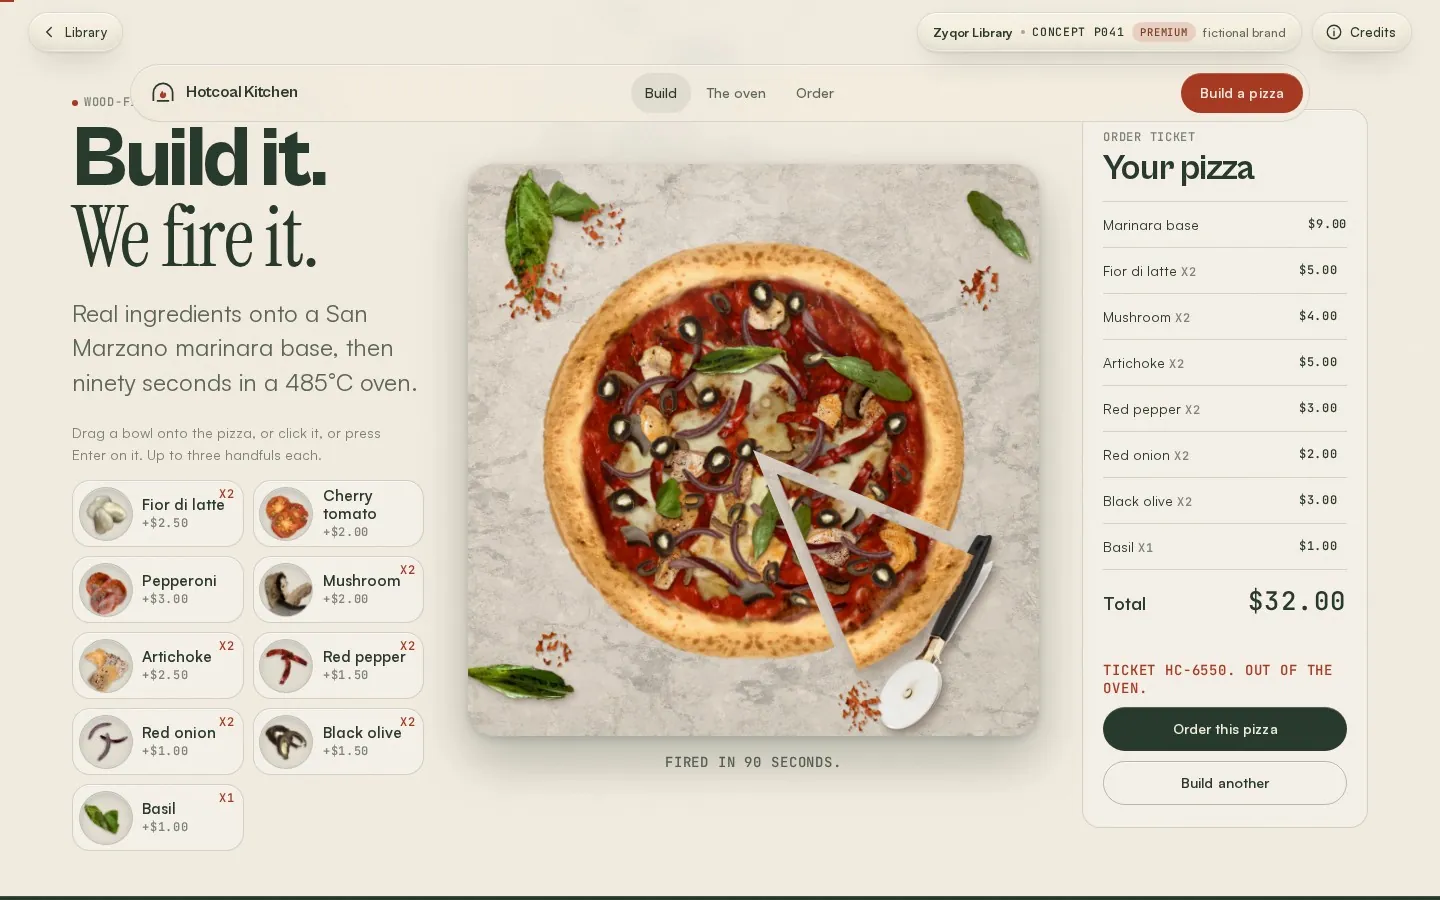
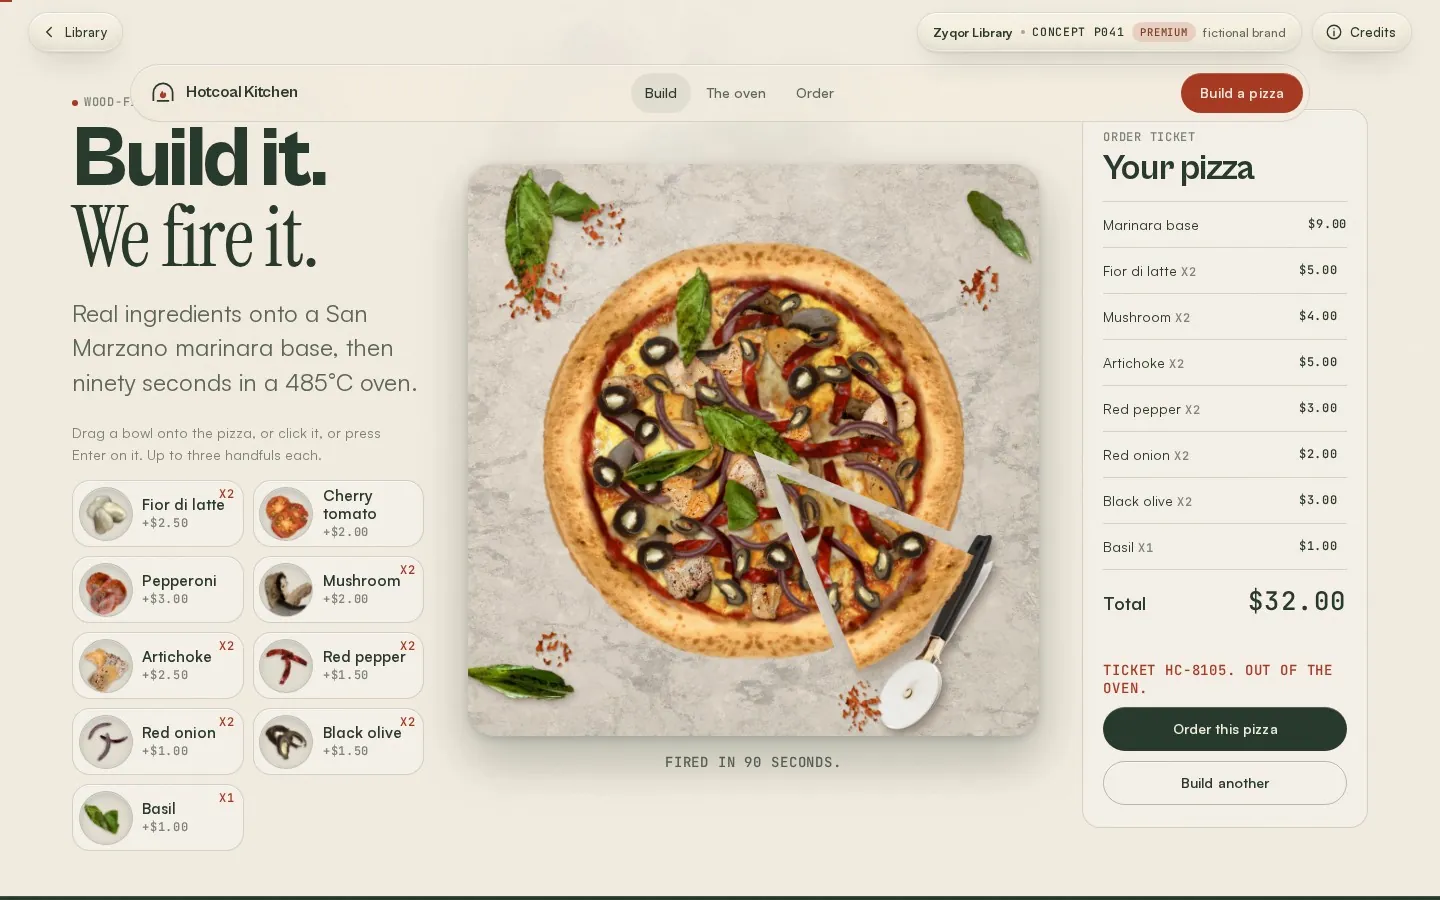
P041 v3: melted cheese sheet when mozzarella is on, bigger veggie pieces; credits

Changed region(s): [[0.4062, 0.28, 0.6562, 0.6844]]

diff --git a/site/library/p/P041/app.js b/site/library/p/P041/app.js
@@ -33,11 +33,11 @@ const ING = {
   mozzarella: { name: 'Fior di latte', price: 2.5, n: 4, size: 1.25, oil: 'rgb(238,170,92)', raw: list('mozz-raw', 6), baked: list('mozz-baked', 6), grow: [1.0, 1.2], shadow: [0.75, 0.1], gap: 0.24 },
   tomato:     { name: 'Cherry tomato', price: 2.0, n: 6, size: 1.12, raw: list('tom-raw', 2), baked: list('tom-baked', 2), grow: [1, 0.9], shadow: [0.7, 0.55], gap: 0.17 },
   pepperoni:  { name: 'Pepperoni',     price: 3.0, n: 6, oil: 'rgb(226,118,38)', raw: list('pep-raw', 5), baked: list('pep-baked', 5), grow: [1.02, 0.92], shadow: [0.5, 0.38], gap: 0.25 },
-  mushroom:   { name: 'Mushroom',      price: 2.0, n: 8, raw: list('mush-raw', 3), baked: list('mush-baked', 3), grow: [1, 0.9], shadow: [0.55, 0.42], gap: 0.2 },
-  artichoke:  { name: 'Artichoke',     price: 2.5, n: 6, raw: list('arti-raw', 7), baked: list('arti-baked', 7), grow: [1, 0.95], shadow: [0.55, 0.42], gap: 0.22 },
-  pepper:     { name: 'Red pepper', price: 1.5, n: 7, raw: list('pepper-raw', 5), baked: list('pepper-baked', 5), grow: [1, 0.92], shadow: [0.5, 0.4], gap: 0.2 },
-  onion:      { name: 'Red onion',     price: 1.0, n: 8, raw: list('onion-raw', 4), baked: list('onion-baked', 4), grow: [1, 0.9], shadow: [0.45, 0.35], gap: 0.19 },
-  olive:      { name: 'Black olive',   price: 1.5, n: 13, raw: list('olive-raw', 3), baked: list('olive-baked', 3), grow: [1, 0.97], shadow: [0.55, 0.45], gap: 0.13 },
+  mushroom:   { name: 'Mushroom',      price: 2.0, n: 8, size: 1.25, raw: list('mush-raw', 3), baked: list('mush-baked', 3), grow: [1, 0.9], shadow: [0.55, 0.42], gap: 0.2 },
+  artichoke:  { name: 'Artichoke',     price: 2.5, n: 6, size: 1.2, raw: list('arti-raw', 7), baked: list('arti-baked', 7), grow: [1, 0.95], shadow: [0.55, 0.42], gap: 0.22 },
+  pepper:     { name: 'Red pepper', price: 1.5, n: 7, size: 1.12, raw: list('pepper-raw', 5), baked: list('pepper-baked', 5), grow: [1, 0.92], shadow: [0.5, 0.4], gap: 0.2 },
+  onion:      { name: 'Red onion',     price: 1.0, n: 8, size: 1.12, raw: list('onion-raw', 4), baked: list('onion-baked', 4), grow: [1, 0.9], shadow: [0.45, 0.35], gap: 0.19 },
+  olive:      { name: 'Black olive',   price: 1.5, n: 13, size: 1.3, raw: list('olive-raw', 3), baked: list('olive-baked', 3), grow: [1, 0.97], shadow: [0.55, 0.45], gap: 0.13 },
   /* basil goes on fresh after the oven, the way a pizzaiolo finishes it: the baked state keeps the bright leaves */
   basil:      { name: 'Basil',         price: 1.0, n: 4, raw: list('basil-raw', 4), baked: list('basil-raw', 4), grow: [1, 1], shadow: [0.5, 0.45], gap: 0.22 }
 };
@@ -72,6 +72,8 @@ function shadowOf(el, blur, tint) {
 }
 const baseRaw = img(isM ? 'img/base-raw-1024.webp' : 'img/base-raw.webp');
 const baseBaked = img(isM ? 'img/base-baked-1024.webp' : 'img/base-baked.webp');
+/* with mozzarella on, the oven melts it into one sheet: real melted cheese (Baron Maddock, CC BY 4.0) fades in over the sauce */
+const baseCheese = img(isM ? 'img/base-cheese-1024.webp' : 'img/base-cheese.webp');
 const warm = () => { for (const t of ORDER) { ING[t].raw.forEach(img); ING[t].baked.forEach(img); } };
 ('requestIdleCallback' in window) ? requestIdleCallback(warm, { timeout: 900 }) : setTimeout(warm, 300);
 
@@ -100,6 +102,8 @@ function render(now) {
   ctx.imageSmoothingEnabled = true; ctx.imageSmoothingQuality = 'high';
   if (baseRaw.ok) ctx.drawImage(baseRaw.el, 0, 0, W, W);
   if (baseBaked.ok && p > 0) { ctx.globalAlpha = sstep(0.05, 0.9, p); ctx.drawImage(baseBaked.el, 0, 0, W, W); ctx.globalAlpha = 1; }
+  const nz = state.portions.mozzarella.length;
+  if (nz && baseCheese.ok && p > 0) { ctx.globalAlpha = sstep(0.2, 0.85, p) * Math.min(1, 0.55 + 0.25 * nz); ctx.drawImage(baseCheese.el, 0, 0, W, W); ctx.globalAlpha = 1; }
   for (const type of ORDER) {
     const cfg = ING[type], pieces = state.portions[type].flat().concat(gone.filter((g) => g.type === type));
     if (!pieces.length) continue;

diff --git a/site/library/p/P041/index.html b/site/library/p/P041/index.html
@@ -112,7 +112,7 @@
       </div>
     </div>
   </section>
-  <section class="wrap photo-cred" aria-label="Photo credits"><p class="mono">Photos: crust, melted mozzarella and basil from "Neapolitan pizza at Trappica" by Bex Walton, Wikimedia Commons, CC BY 2.0 (creativecommons.org/licenses/by/2.0); raw mozzarella from "Mozzarella" by Dezidor, Wikimedia Commons, CC BY 3.0 (creativecommons.org/licenses/by/3.0); sauce "Pizza marinara (Napoli)" by Ruthven, pepperoni from "Luigis Pizza &amp; Pasta - Pepperoni pizza" by Beno&icirc;t Prieur, cherry tomatoes by Raju C Reddy (Wikimedia Commons, CC0 1.0). All cut out, re-lit and baked by Zyqor Studio. Veggie toppings: black olives from "Supreme pizza" by Scott Bauer, USDA ARS (public domain); raw mushrooms from "Pizza veggie by Arthur avant cuisson au four" by Beno&icirc;t Prieur (CC0 1.0) and "Sliced champignons" by frank wouters, Wikimedia Commons, CC BY 2.0 (creativecommons.org/licenses/by/2.0); artichoke hearts from a pizza photo by Daderot (CC0 1.0); roasted pepper strips from "Roasted Bell Peppers" by Ryan Snyder, Wikimedia Commons, CC BY 2.0 (creativecommons.org/licenses/by/2.0); red onion from "Red onion rings" by Sebastian Wallroth (public domain). Table: "Marble 012", ambientCG (CC0 1.0); pizza slicer by Evan-Amos (public domain); chili flakes from "Red pepper flakes for pickling" (CC0 1.0). Idea sparked by a pizza-builder reel shared by @online.by.annie; nothing of it is used.</p></section>
+  <section class="wrap photo-cred" aria-label="Photo credits"><p class="mono">Photos: crust, melted mozzarella and basil from "Neapolitan pizza at Trappica" by Bex Walton, Wikimedia Commons, CC BY 2.0 (creativecommons.org/licenses/by/2.0); raw mozzarella from "Mozzarella" by Dezidor, Wikimedia Commons, CC BY 3.0 (creativecommons.org/licenses/by/3.0); sauce "Pizza marinara (Napoli)" by Ruthven, pepperoni from "Luigis Pizza &amp; Pasta - Pepperoni pizza" by Beno&icirc;t Prieur, cherry tomatoes by Raju C Reddy (Wikimedia Commons, CC0 1.0). All cut out, re-lit and baked by Zyqor Studio. Melted cheese sheet from "Mellow Mushroom cheese pizza" by Baron Maddock, Wikimedia Commons, CC BY 4.0 (creativecommons.org/licenses/by/4.0). Veggie toppings: black olives from "Supreme pizza" by Scott Bauer, USDA ARS (public domain); raw mushrooms from "Pizza veggie by Arthur avant cuisson au four" by Beno&icirc;t Prieur (CC0 1.0) and "Sliced champignons" by frank wouters, Wikimedia Commons, CC BY 2.0 (creativecommons.org/licenses/by/2.0); artichoke hearts from a pizza photo by Daderot (CC0 1.0); roasted pepper strips from "Roasted Bell Peppers" by Ryan Snyder, Wikimedia Commons, CC BY 2.0 (creativecommons.org/licenses/by/2.0); red onion from "Red onion rings" by Sebastian Wallroth (public domain). Table: "Marble 012", ambientCG (CC0 1.0); pizza slicer by Evan-Amos (public domain); chili flakes from "Red pepper flakes for pickling" (CC0 1.0). Idea sparked by a pizza-builder reel shared by @online.by.annie; nothing of it is used.</p></section>
 </main>
 <div class="ghost" id="ghost" aria-hidden="true"></div>
 <div class="m-bar" id="m-bar" hidden><span class="mono">Total <b>$<span id="mb-total">9.00</span></b></span><button class="btn btn--accent" type="button" id="mb-fire" aria-disabled="true">Fire it</button></div>

diff --git a/site/library/p/P041/m.html b/site/library/p/P041/m.html
@@ -111,7 +111,7 @@
       </div>
     </div>
   </section>
-  <section class="wrap photo-cred" aria-label="Photo credits"><p class="mono">Photos: crust, melted mozzarella and basil from "Neapolitan pizza at Trappica" by Bex Walton, Wikimedia Commons, CC BY 2.0 (creativecommons.org/licenses/by/2.0); raw mozzarella from "Mozzarella" by Dezidor, Wikimedia Commons, CC BY 3.0 (creativecommons.org/licenses/by/3.0); sauce "Pizza marinara (Napoli)" by Ruthven, pepperoni from "Luigis Pizza &amp; Pasta - Pepperoni pizza" by Beno&icirc;t Prieur, cherry tomatoes by Raju C Reddy (Wikimedia Commons, CC0 1.0). All cut out, re-lit and baked by Zyqor Studio. Veggie toppings: black olives from "Supreme pizza" by Scott Bauer, USDA ARS (public domain); raw mushrooms from "Pizza veggie by Arthur avant cuisson au four" by Beno&icirc;t Prieur (CC0 1.0) and "Sliced champignons" by frank wouters, Wikimedia Commons, CC BY 2.0 (creativecommons.org/licenses/by/2.0); artichoke hearts from a pizza photo by Daderot (CC0 1.0); roasted pepper strips from "Roasted Bell Peppers" by Ryan Snyder, Wikimedia Commons, CC BY 2.0 (creativecommons.org/licenses/by/2.0); red onion from "Red onion rings" by Sebastian Wallroth (public domain). Table: "Marble 012", ambientCG (CC0 1.0); pizza slicer by Evan-Amos (public domain); chili flakes from "Red pepper flakes for pickling" (CC0 1.0). Idea sparked by a pizza-builder reel shared by @online.by.annie; nothing of it is used.</p></section>
+  <section class="wrap photo-cred" aria-label="Photo credits"><p class="mono">Photos: crust, melted mozzarella and basil from "Neapolitan pizza at Trappica" by Bex Walton, Wikimedia Commons, CC BY 2.0 (creativecommons.org/licenses/by/2.0); raw mozzarella from "Mozzarella" by Dezidor, Wikimedia Commons, CC BY 3.0 (creativecommons.org/licenses/by/3.0); sauce "Pizza marinara (Napoli)" by Ruthven, pepperoni from "Luigis Pizza &amp; Pasta - Pepperoni pizza" by Beno&icirc;t Prieur, cherry tomatoes by Raju C Reddy (Wikimedia Commons, CC0 1.0). All cut out, re-lit and baked by Zyqor Studio. Melted cheese sheet from "Mellow Mushroom cheese pizza" by Baron Maddock, Wikimedia Commons, CC BY 4.0 (creativecommons.org/licenses/by/4.0). Veggie toppings: black olives from "Supreme pizza" by Scott Bauer, USDA ARS (public domain); raw mushrooms from "Pizza veggie by Arthur avant cuisson au four" by Beno&icirc;t Prieur (CC0 1.0) and "Sliced champignons" by frank wouters, Wikimedia Commons, CC BY 2.0 (creativecommons.org/licenses/by/2.0); artichoke hearts from a pizza photo by Daderot (CC0 1.0); roasted pepper strips from "Roasted Bell Peppers" by Ryan Snyder, Wikimedia Commons, CC BY 2.0 (creativecommons.org/licenses/by/2.0); red onion from "Red onion rings" by Sebastian Wallroth (public domain). Table: "Marble 012", ambientCG (CC0 1.0); pizza slicer by Evan-Amos (public domain); chili flakes from "Red pepper flakes for pickling" (CC0 1.0). Idea sparked by a pizza-builder reel shared by @online.by.annie; nothing of it is used.</p></section>
 </main>
 
 <div class="m-bar" id="m-bar"><span class="mono">Total <b>$<span id="mb-total">9.00</span></b></span><button class="btn btn--accent" type="button" id="mb-fire" aria-disabled="true">Fire it</button></div>

diff --git a/CREDITS.md b/CREDITS.md
@@ -505,6 +505,7 @@ Code and design: Zyqor Studio (MIT). Personal content (Zyqor name and logo, Sujo
 | Pizza slicer (table prop) | [Evan-Amos](https://commons.wikimedia.org/wiki/File:Pizza-slicer.jpg) | [link](https://commons.wikimedia.org/wiki/File:Pizza-slicer.jpg) | [Public domain (author release)](https://commons.wikimedia.org/wiki/Template:PD-self) | "Pizza-slicer" by Evan-Amos, via Wikimedia Commons (https://commons.wikimedia.org/wiki/File:Pizza-slicer.jpg), Public domain (author release) (https://commons.wikimedia.org/wiki/Template:PD-self) | cut out of white background, contact shadow | 2026-10-30 | `site/library/p/P041/img/props.webp` |
 | Chili flakes (table prop) | [Nutrition, Food Safety & Health](https://commons.wikimedia.org/wiki/File:Red_pepper_flakes_for_pickling.jpg) | [link](https://commons.wikimedia.org/wiki/File:Red_pepper_flakes_for_pickling.jpg) | [CC0 1.0](https://creativecommons.org/publicdomain/zero/1.0/) | "Red pepper flakes for pickling" by Nutrition, Food Safety & Health, via Wikimedia Commons (https://commons.wikimedia.org/wiki/File:Red_pepper_flakes_for_pickling.jpg), CC0 1.0 (https://creativecommons.org/publicdomain/zero/1.0/) | pinches cut from the bowl | 2026-10-30 | `site/library/p/P041/img/props.webp` |
 | Marble table | [ambientCG](https://ambientcg.com/view?id=Marble012) | [link](https://ambientcg.com/view?id=Marble012) | [CC0 1.0](https://creativecommons.org/publicdomain/zero/1.0/) | "Marble 012" by ambientCG, CC0 1.0 (courtesy credit) | warmed to a warm-grey slab | 2026-10-30 | `site/library/p/P041/img/marble.webp` |
+| Melted cheese sheet (baked, with mozzarella) | [Baron Maddock](https://commons.wikimedia.org/wiki/File:Mellow_Mushroom_cheese_pizza.jpg) | [link](https://commons.wikimedia.org/wiki/File:Mellow_Mushroom_cheese_pizza.jpg) | [CC BY 4.0](https://creativecommons.org/licenses/by/4.0/) | "Mellow Mushroom cheese pizza" by Baron Maddock, via Wikimedia Commons (https://commons.wikimedia.org/wiki/File:Mellow_Mushroom_cheese_pizza.jpg), CC BY 4.0 (https://creativecommons.org/licenses/by/4.0/) | cheese rectified top-down, cut to a disc with an irregular edge | 2026-10-30 | `site/library/p/P041/img/base-cheese*.webp` |
 
 ## Library shared kit
 
